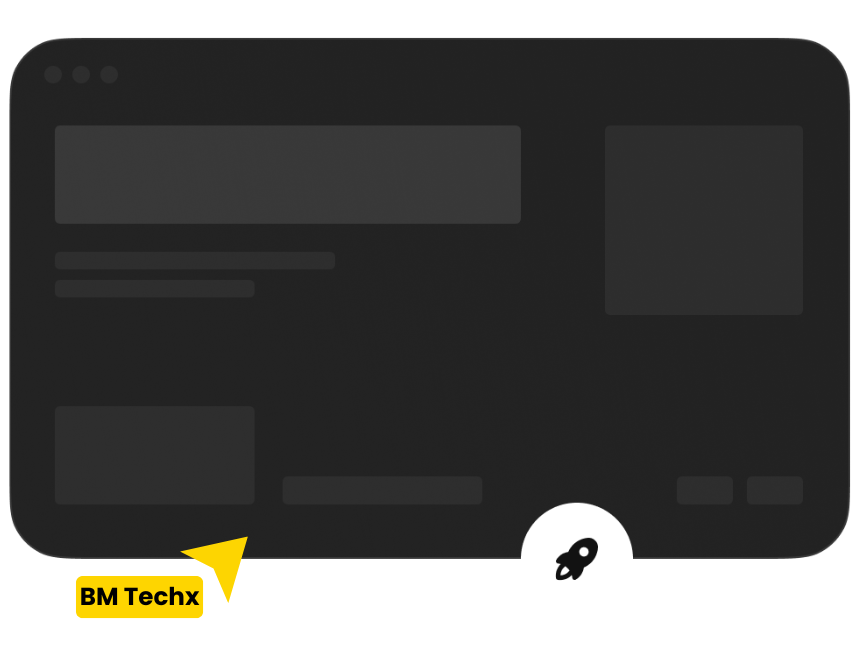
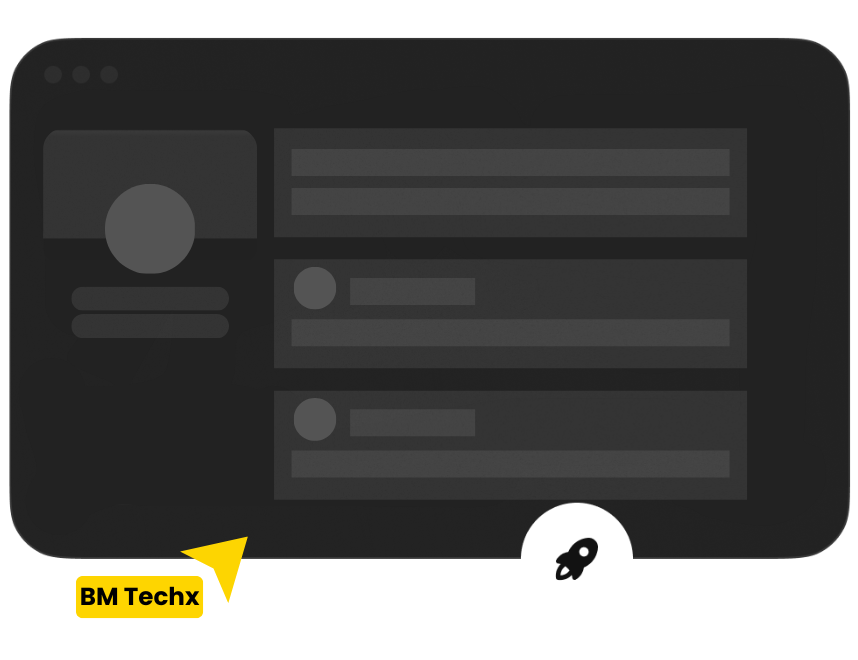
updated

diff --git a/client/src/Pages/cardeffort.jsx b/client/src/Pages/cardeffort.jsx
@@ -1,89 +1,3 @@
-// import "./css/cardeffort.css";
-// import React from "react";
-// import { motion } from "framer-motion";
-// import { bookFreeCall } from "../Whatsapp/whatsappUtils";
-
-// const ZigzagCards = () => {
-//   const cards = [
-//     {
-//       id: 1,
-//       image: "Banners/UI_UX.png",
-//       logo: "image/s1.1.png",
-//       heading: "UI/UX Design",
-//       text: "We create intuitive and engaging designs that enhance user experience, improve usability, and boost conversions. Our expert team ensures a seamless, visually appealing digital presence.",
-//       buttonText: "Contact Us",
-//     },
-//     {
-//       id: 2,
-//       image: "Banners/3dmotion.png",
-//       logo: "image/s2.2.png",
-//       heading: "Product Design",
-//       text: "Transform your ideas into market-ready products with our innovative and scalable design solutions. We blend technology and creativity to deliver high-performance products.",
-//       buttonText: "Contact Us",
-//     },
-//     {
-//       id: 3,
-//       image: "Banners/Productdesign.png",
-//       logo: "image/s3.3.png",
-//       heading: "Web Design",
-//       text: "We craft visually stunning and user-friendly websites that captivate audiences and drive engagement. Our designs blend creativity with functionality for a seamless digital experience.",
-//       buttonText: "Contact Us",
-//     },
-//     {
-//       id: 4,
-//       image: "Banners/WebDevelpment.png",
-//       logo: "image/s4.4.png",
-//       heading: "3D & Motion",
-//       text: "Bring your ideas to life with dynamic 3D motion graphics that captivate and engage. Our animations add depth, realism, and energy to your brand's storytelling.",
-//       buttonText: "Contact Us",
-//     },
-//     {
-//       id: 5,
-//       image: "Banners/Coding.png",
-//       logo: "image/s5.5.png",
-//       heading: "Web Development",
-//       text: "We build high-performance, responsive websites tailored to your business needs. From front-end to back-end, our development solutions ensure speed, security, and scalability.",
-//       buttonText: "Contact Us",
-//     },
-//   ];
-
-//   return (
-//     <div className="cardeffort">
-//       <h2 className="text-center card-top-text fw-bold pb-3">Our services</h2>
-//       <div className="container px-md-4 px-lg-5"> {/* Added responsive padding */}
-//         {cards.map((card, index) => (
-//           <motion.div
-//             key={card.id}
-//             className={`row gx-md-4 mb-4 align-items-center ${index % 2 === 0 ? "" : "flex-row-reverse"}`}
-//             initial={{ opacity: 0, x: index % 2 === 0 ? -100 : 100 }}
-//             whileInView={{ opacity: 1, x: 0 }}
-//             transition={{ duration: 1, ease: "easeOut" }}
-//             viewport={{ once: true, amount: 0.2 }}
-//           >
-//             <div className="col-md-6 mb-2 px-md-3"> {/* Added padding */}
-//               <img src={card.image} alt={`Card ${card.id}`} className="img-fluid w-100" />
-//             </div>
-//             <div className={`col-md-6 card-text-col px-md-4 ${index % 2 === 0 ? 'ps-md-3' : 'pe-md-3'}`}>
-//               <img src={card.logo} alt="Logo" className="logo-img mb-4 mt-3" />
-//               <h2 className="heading-with-logo">
-//                 <span>{card.heading}</span>
-//               </h2>
-//               <p>{card.text}</p>
-//               <button 
-//                 className="btn btn-primary mb-4" 
-//                 onClick={bookFreeCall}
-//               >
-//                 {card.buttonText}
-//               </button>
-//             </div>
-//           </motion.div>
-//         ))}
-//       </div>
-//     </div>
-//   );
-// };
-
-// export default ZigzagCards;
 
 import "./css/cardeffort.css";
 import React,{useState} from "react";

diff --git a/client/src/Pages/Header.jsx b/client/src/Pages/Header.jsx
@@ -124,7 +124,7 @@ import { Link, useNavigate } from "react-router-dom";
 import "bootstrap/dist/css/bootstrap.min.css";
 import "./css/Header.css";
 import { GiFeather } from "react-icons/gi";
-import { FaLaptopCode, FaPaintBrush, FaCube } from "react-icons/fa";
+import { FaLaptopCode, FaSearch, FaShareAlt, FaDollarSign, FaCogs } from "react-icons/fa";
 import { bookFreeCall } from "../Whatsapp/whatsappUtils";
 import { Helmet } from 'react-helmet-async';
 import { useTranslation } from 'react-i18next';
@@ -211,21 +211,33 @@ const Header = () => {
                 >
                   <NavDropdown.Item onClick={handleNavigate}>
                     <span className="icon-box">
+                      <FaSearch className="dropdown-icon" />
+                    </span>
+                    {t("nav.seo_services")}
+                  </NavDropdown.Item>
+                  <NavDropdown.Item onClick={handleNavigate}>
+                    <span className="icon-box">
+                      <FaShareAlt className="dropdown-icon" />
+                    </span>
+                    {t("nav.social_media")}
+                  </NavDropdown.Item>
+                  <NavDropdown.Item onClick={handleNavigate}>
+                    <span className="icon-box">
+                      <FaDollarSign className="dropdown-icon" />
+                    </span>
+                    {t("nav.ppc_services")}
+                  </NavDropdown.Item>
+                  <NavDropdown.Item onClick={handleNavigate}>
+                    <span className="icon-box">
                       <FaLaptopCode className="dropdown-icon" />
                     </span>
-                    {t("nav.web_design")}
+                    {t("nav.web_dev")}
                   </NavDropdown.Item>
                   <NavDropdown.Item onClick={handleNavigate}>
                     <span className="icon-box">
-                      <FaPaintBrush className="dropdown-icon" />
+                      <FaCogs className="dropdown-icon" />
                     </span>
-                    {t("nav.ui_ux_design")}
-                  </NavDropdown.Item>
-                  <NavDropdown.Item onClick={handleNavigate}>
-                    <span className="icon-box">
-                      <FaCube className="dropdown-icon" />
-                    </span>
-                    {t("nav.product_design")}
+                    {t("nav.software")}
                   </NavDropdown.Item>
                 </NavDropdown>
 

diff --git a/client/src/Pages/Footer.jsx b/client/src/Pages/Footer.jsx
@@ -158,9 +158,11 @@ const Footer = () => {
             <Col xs={12} md={3} className="text-center text-md-start ps-lg-4">
               <h4 className="heading-footer">{t('services')}</h4>
               <ul className="list-unstyled">
-                <li><Link to="/cases" className="text-light">{t('productDesign')}</Link></li>
-                <li><Link to="/cases" className="text-light">{t('webDesign')}</Link></li>
-                <li><Link to="/cases" className="text-light">{t('uiuxDesign')}</Link></li>
+                <li><Link to="/cases" className="text-light">{t('seoServices')}</Link></li>
+                <li><Link to="/cases" className="text-light">{t('socialMedia')}</Link></li>
+                <li><Link to="/cases" className="text-light">{t('ppcServices')}</Link></li>
+                <li><Link to="/cases" className="text-light">{t('webDev')}</Link></li>
+                <li><Link to="/cases" className="text-light">{t('software')}</Link></li>
               </ul>
             </Col>
 